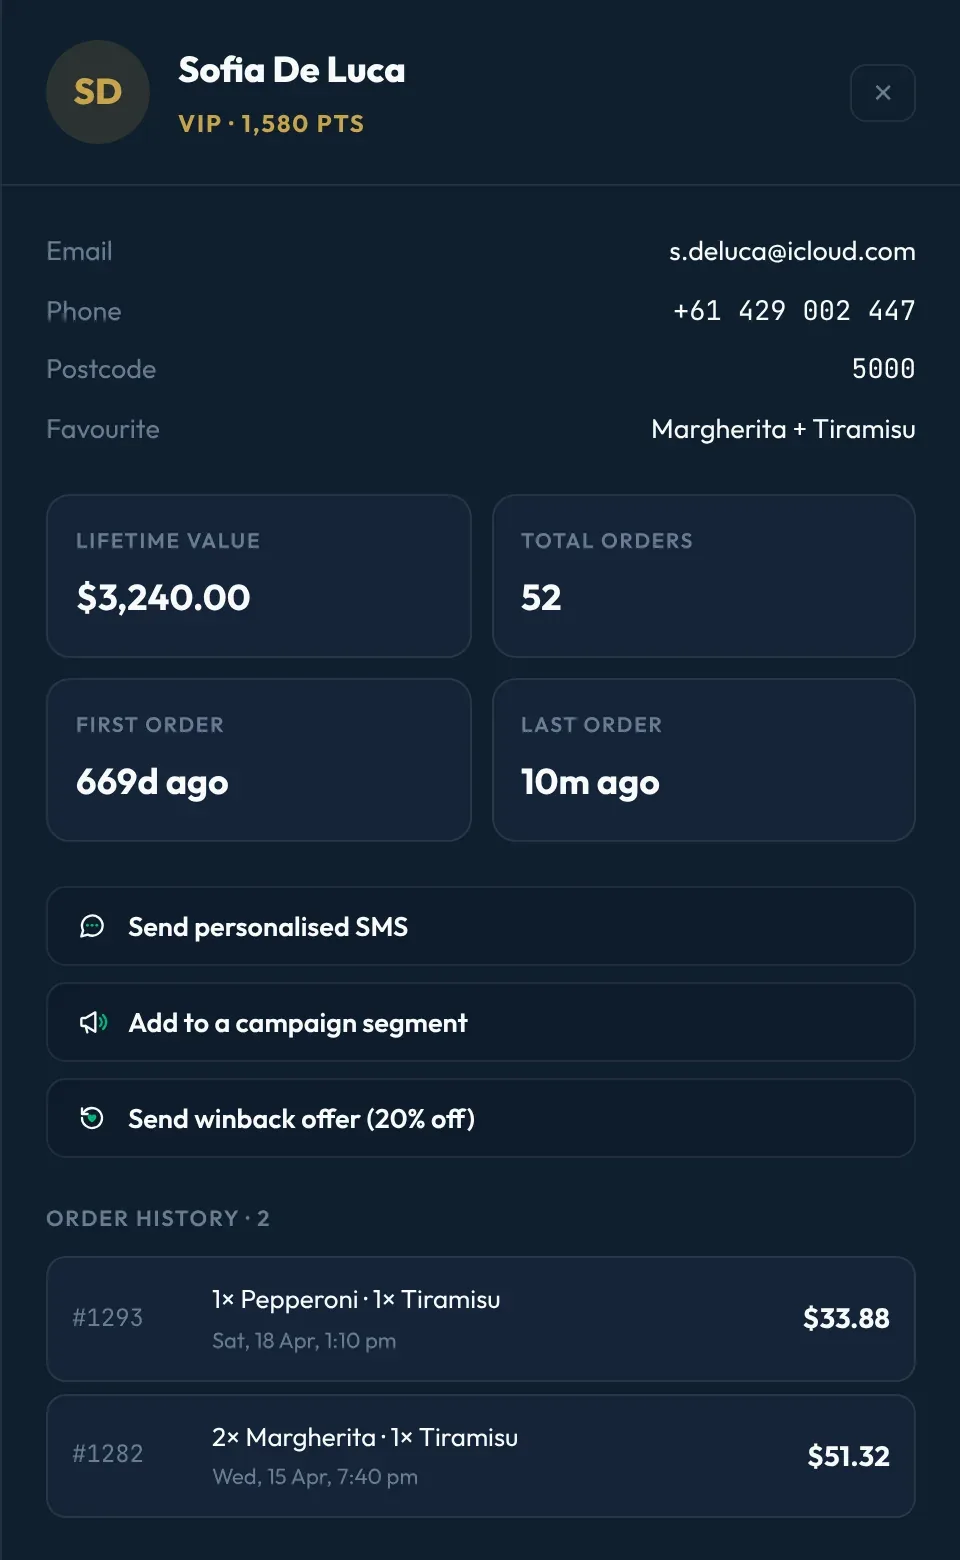
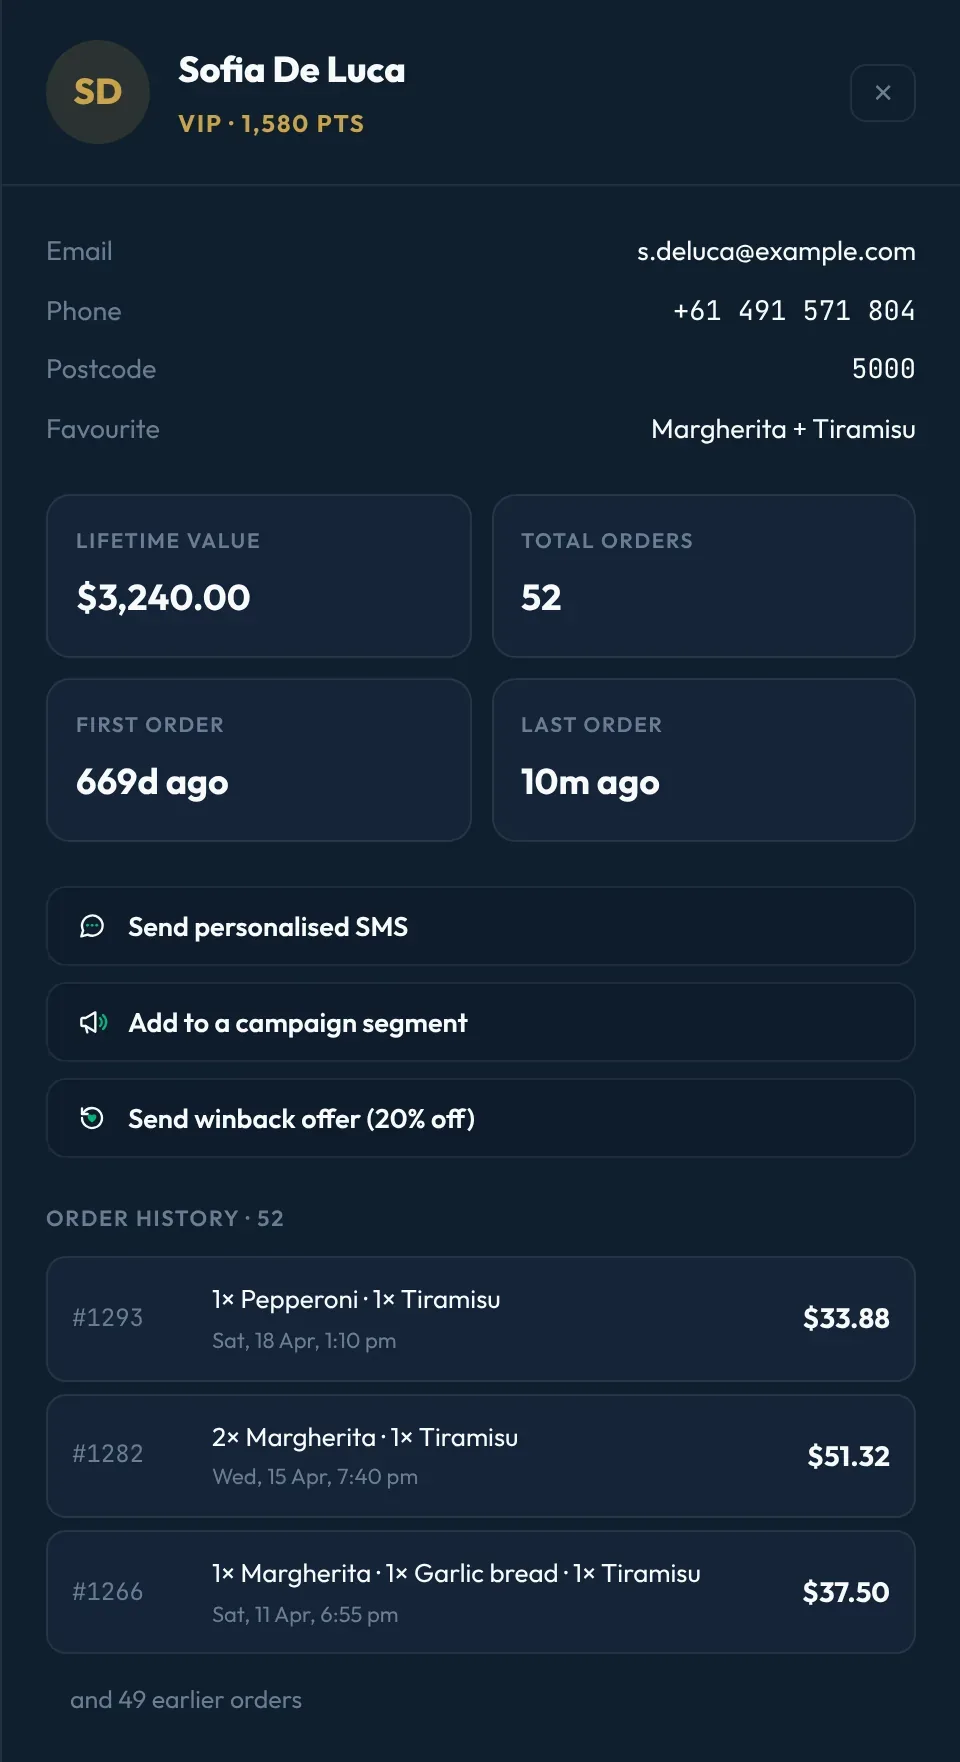
Homepage stills from the one-business demo
Regenerates every still in public/media/hero from the new demo
screenshots, with the same crops and sizes, so the hero, the orders
list, the feature previews and the sample site all show Nonna's
Kitchen. Stock and delivery are re-captured from the new demo.
The profile panel is now 960x1762 and the win-back panel 840x1204, so
the hero's sizes follow: the desktop win-back crop ends after its
two-line note, and the phone row is sized from the new shapes so the
cart and profile still fill the width side by side.

Claude-Session: https://claude.ai/code/session_01PMjaLMpnNdWLw3zZxcMKpT

diff --git a/apps/web/app/globals.css b/apps/web/app/globals.css
@@ -919,9 +919,11 @@ textarea.input { resize: vertical; }
 }
 .hm-shot-cart .hm-shot-frame { border-radius: 26px; background: transparent; }
 .hm-shot-frame img { display: block; width: 100%; height: auto; }
-/* Desktop crops: the profile down to its first row of figures, the win-back to the message it sends */
-.hm-shot-profile .hm-shot-frame { aspect-ratio: 530 / 373; }
-.hm-shot-winback .hm-shot-frame { aspect-ratio: 3 / 2; }
+/* Desktop crops, each ending in a gap between rows of the panel: the profile
+   after its first row of figures (676 of 1762px), the win-back after the text
+   it sends and the note under it (604 of 1204px). */
+.hm-shot-profile .hm-shot-frame { aspect-ratio: 960 / 676; }
+.hm-shot-winback .hm-shot-frame { aspect-ratio: 840 / 604; }
 .hm-shot figcaption {
   margin-top: 14px;
   font-size: 16px;
@@ -966,7 +968,9 @@ textarea.input { resize: vertical; }
   .hm-hero-text,
   .hm-shots-foot { padding-left: max(var(--margin), env(safe-area-inset-left, 0px)); padding-right: max(var(--margin), env(safe-area-inset-right, 0px)); }
   .hm-shots {
-    --h: calc((100vw - 50px) * 0.794);
+    /* Tall enough that the cart and the profile fill the width side by side:
+       (0.6478 + 0.5448) x h + the 18px gap = the screen less its 32px of margins */
+    --h: calc((100vw - 50px) / 1.1926);
     display: flex;
     gap: 18px;
     padding: 0 var(--margin);
@@ -978,9 +982,10 @@ textarea.input { resize: vertical; }
   }
   .hm-shots::-webkit-scrollbar { display: none; }
   .hm-shot { flex: 0 0 auto; scroll-snap-align: start; margin-top: 0; }
-  .hm-shot-cart { width: calc(var(--h) * 0.6446); }
-  .hm-shot-profile { width: calc(var(--h) * 0.6154); }
-  .hm-shot-winback { width: calc(var(--h) * 0.7167); }
+  /* Each screen's width at the row's height, from its real size (780x1204, 960x1762, 840x1204) */
+  .hm-shot-cart { width: calc(var(--h) * 0.6478); }
+  .hm-shot-profile { width: calc(var(--h) * 0.5448); }
+  .hm-shot-winback { width: calc(var(--h) * 0.6977); }
   .hm-shot-frame,
   .hm-shot-profile .hm-shot-frame,
   .hm-shot-winback .hm-shot-frame { aspect-ratio: auto; border-radius: 14px; }

diff --git a/apps/web/app/components/home/hero-screens.tsx b/apps/web/app/components/home/hero-screens.tsx
@@ -15,7 +15,7 @@ const SHOTS = [
     text: "A customer orders on your own site.",
     src: "/media/hero/site-cart-phone-crop.webp",
     w: 780,
-    h: 1210,
+    h: 1204,
     alt: "A customer's cart on a restaurant's own ordering site, with the points they'll earn and a checkout button.",
   },
   {
@@ -24,7 +24,7 @@ const SHOTS = [
     text: "They're saved to your customer list.",
     src: "/media/hero/crm-customer-profile-panel.webp",
     w: 960,
-    h: 1560,
+    h: 1762,
     alt: "A customer profile in the ZentraBite CRM, with their tier, points, contact details, lifetime value and orders.",
   },
   {
@@ -33,7 +33,7 @@ const SHOTS = [
     text: "If they go quiet, they get a text.",
     src: "/media/hero/crm-winback-panel.webp",
     w: 840,
-    h: 1172,
+    h: 1204,
     alt: "A 30-day win-back campaign in ZentraBite, with the text message a quiet customer receives.",
   },
 ] as const;
